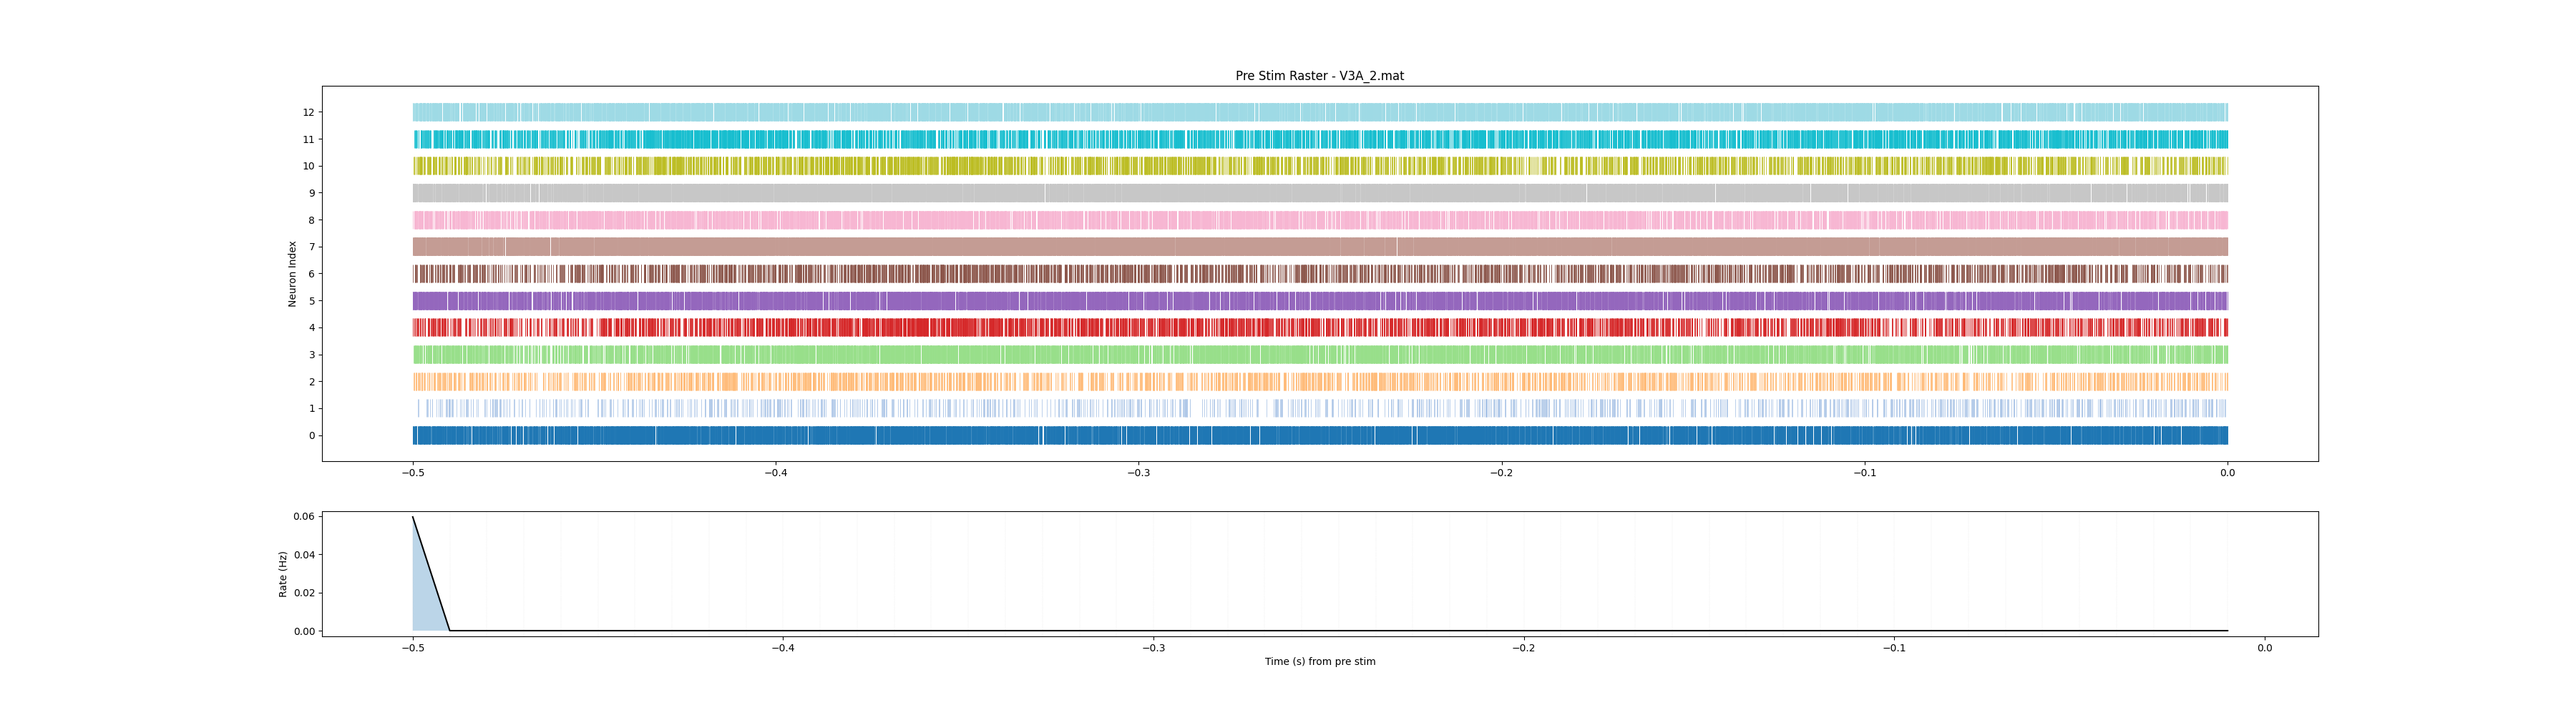
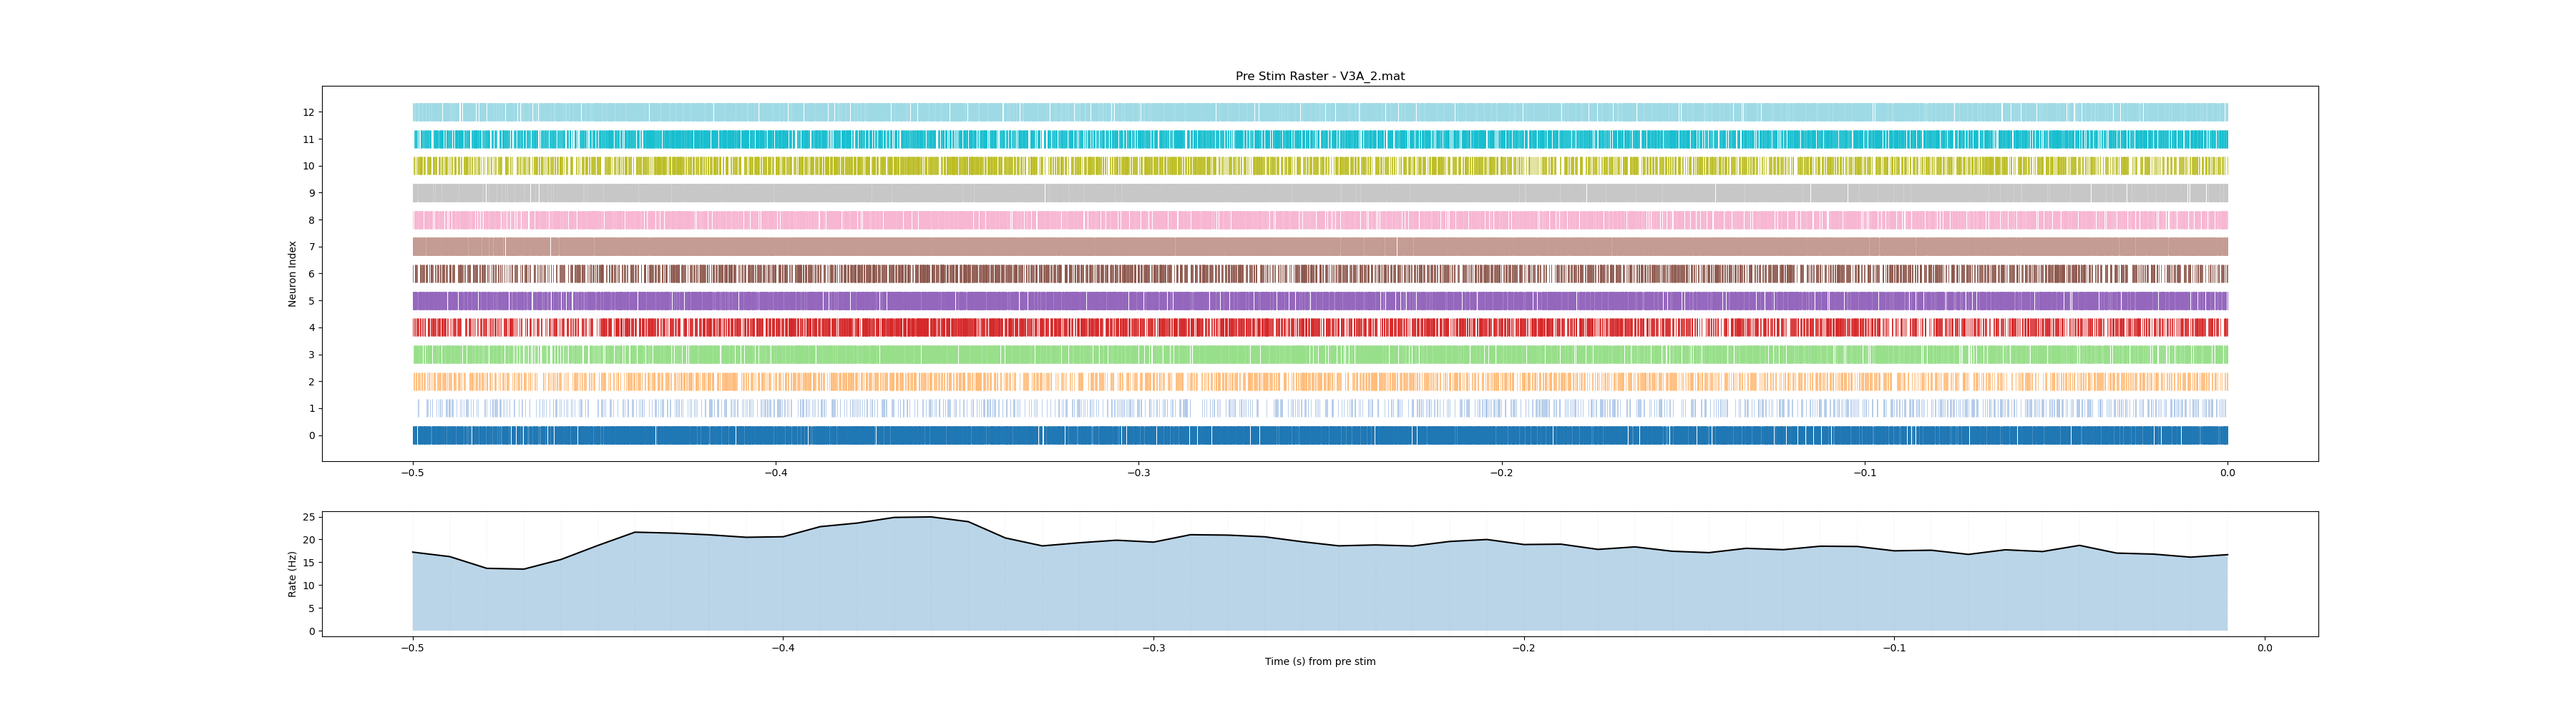
bug fiexed for raster plot

Changed region(s): [[0.1556, 0.713, 0.8711, 0.899], [0.0933, 0.775, 0.1244, 0.837], [0.4978, 0.093, 0.5289, 0.124]]

diff --git a/fr_recording.py b/fr_recording.py
@@ -49,18 +49,19 @@ def build_neuron_map(trial):
                 neuron_map.append((tt, 0))
     return neuron_map
 
-def compute_trialwise_population_rate(spike_trials, bin_size=0.01, duration=1.0):
-    num_trials = len(spike_trials[0])
-    num_neurons = len(spike_trials)
+def compute_trialwise_population_rate(spike_trials, bin_size=0.01, window=(0, 0.5)):
+    duration = window[1] - window[0]
     num_bins = int(duration / bin_size)
 
+    num_trials = len(spike_trials[0])
+    num_neurons = len(spike_trials)
     all_trial_rates = np.zeros((num_trials, num_bins))
 
     for t in range(num_trials):
         trial_hist = np.zeros(num_bins)
         for n in range(num_neurons):
             spikes = spike_trials[n][t]
-            hist, _ = np.histogram(spikes, bins=num_bins, range=(0, duration))
+            hist, _ = np.histogram(spikes, bins=num_bins, range=window)
             trial_hist += hist
         trial_hist = trial_hist / num_neurons
         trial_hist = trial_hist / bin_size
@@ -102,42 +103,37 @@ def plot_raster_and_rate(all_spikes, align_times, neuron_map, fname, label, wind
             neuron_trial_spikes.append(trial_spikes)
             all_aligned_latencies.extend(trial_spikes)
         pop_spikes.append(neuron_trial_spikes)
-        if all_spike_times:
-            ax_raster.vlines(all_spike_times, center - height / 2, center + height / 2, color=color, linewidth=0.6)
+        ax_raster.vlines(all_spike_times, center - height / 2, center + height / 2, color=color, linewidth=0.6)
 
     ax_raster.set_title(f"{label} Raster - {fname}")
     ax_raster.set_ylabel("Neuron Index")
     ax_raster.set_yticks(ytick_positions)
     ax_raster.set_yticklabels([f"{i}" for i in range(num_neurons)])
 
-    # Compute trial-averaged rate
-    rate = compute_trialwise_population_rate(pop_spikes, bin_size=bin_size, duration=duration)
+    # ✅ Fix: pass window instead of duration
+    rate = compute_trialwise_population_rate(pop_spikes, bin_size=bin_size, window=window)
 
-    # Debug: also compute pooled rate for comparison
+    # ✅ Fix: also correct pooled rate range
     num_bins = len(rate)
     pooled_hist = np.zeros(num_bins)
     total_count = 0
     for neuron_trials in pop_spikes:
         for spikes in neuron_trials:
-            hist, _ = np.histogram(spikes, bins=num_bins, range=(0, duration))
+            hist, _ = np.histogram(spikes, bins=num_bins, range=window)
             pooled_hist += hist
             total_count += 1
     pooled_rate = pooled_hist / total_count / bin_size
 
-    # Debug print
     print(f"[DEBUG] {label} - Mean trial-averaged FR: {np.mean(rate):.2f} Hz")
     print(f"[DEBUG] {label} - Mean pooled FR:         {np.mean(pooled_rate):.2f} Hz")
 
-    # Plot trial-averaged firing rate
     ax_rate.plot(time_bins[:len(rate)], rate, color="black")
     ax_rate.fill_between(time_bins[:len(rate)], 0, rate, alpha=0.3)
     ax_rate.set_ylabel("Rate (Hz)")
     ax_rate.set_xlabel("Time (s) from {}".format(label.lower()))
-
     for x in time_bins:
         ax_rate.axvline(x, color='gray', alpha=0.2, linestyle='--', linewidth=0.3)
 
-    # Optional: latency histogram (pre-stim)
     if label.lower() == "pre stim":
         debug_hist, debug_bins = np.histogram(all_aligned_latencies, bins=10, range=window)
         print(f"[DEBUG] Pre-stim latency histogram (bin counts): {debug_hist}")
@@ -171,7 +167,6 @@ def analyze_file(fname, window, align_to, label, output_dir):
 
     all_spikes = np.array(all_spikes, dtype=object)
     align_times = np.array(align_times)
-
     plot_raster_and_rate(all_spikes, align_times, neuron_map, fname, label, window, output_dir)
 
 def main():
